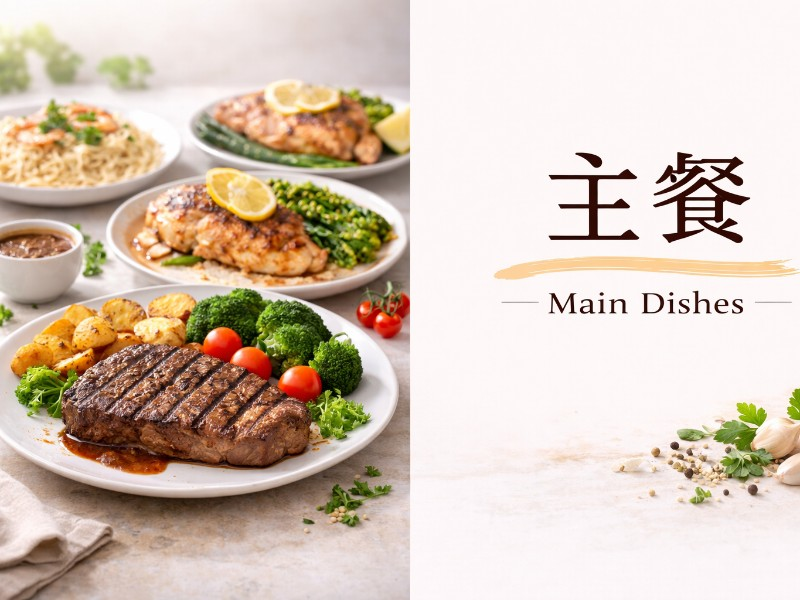
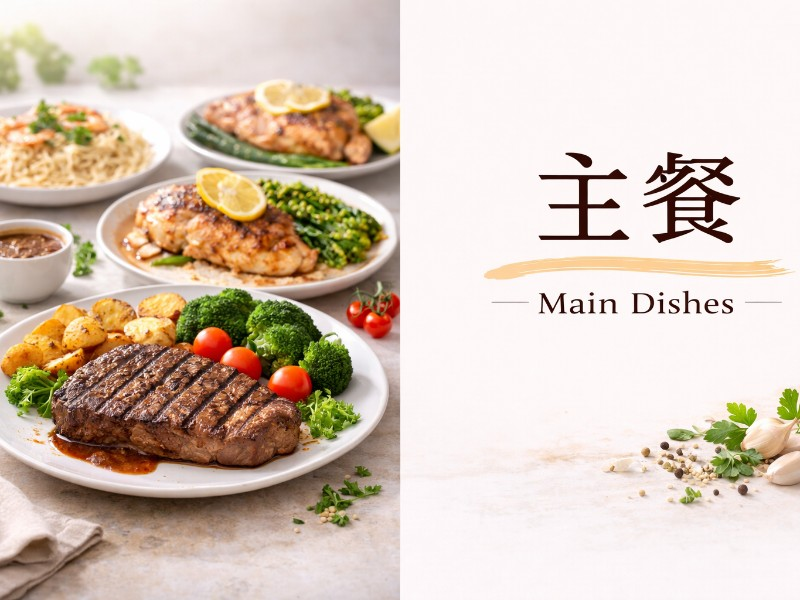
rebase合併修正

diff --git a/EatTogether/Models/Services/OrderService.cs b/EatTogether/Models/Services/OrderService.cs
@@ -548,164 +548,6 @@ namespace EatTogether.Models.Services
 
             if (!tableOrders.Any()) return null;
 
-            // 合併所有訂單的明細
-            var allItems = tableOrders
-                .SelectMany(p => p.PreOrderDetails.Select(d => new PaymentDetailItemViewModel
-                {
-                    DetailId = d.Id,
-                    ProductName = d.ProductName,
-                    Qty = d.Qty,
-                    UnitPrice = d.UnitPrice,
-                    SubTotal = d.SubTotal,
-                    Status = d.DoneOrCancel
-                })).ToList();
-
-            var servedItems = tableOrders.SelectMany(p => p.PreOrderDetails.Where(d => d.DoneOrCancel != 2));
-            int originalAmount = servedItems.Sum(d => d.SubTotal);
-            int discountAmount = tableOrders.Sum(p => p.DiscountAmount);
-
-            // 優惠券顯示第一筆有用券的
-            var couponOrder = tableOrders.FirstOrDefault(p => p.Coupon != null);
-
-            return new PaymentCheckoutViewModel
-            {
-                PreOrderIds = tableOrders.Select(p => p.Id).ToList(),
-                PreOrderId = tableOrders.First().Id,
-                OrderNumber = tableOrders.Count == 1
-                                 ? tableOrders.First().OrderNumber
-                                 : $"{tableOrders.First().OrderNumber} 等 {tableOrders.Count} 筆",
-                InOrOut = true,
-                TableName = tableOrders.First().Table?.TableName ?? "",
-                PayMethod = tableOrders.First().PayMethod,
-                OriginalAmount = originalAmount,
-                DiscountAmount = discountAmount,
-                TotalAmount = originalAmount - discountAmount,
-                HasUnserved = tableOrders.SelectMany(p => p.PreOrderDetails).Any(d => d.DoneOrCancel == 0),
-                CouponName = couponOrder?.Coupon?.Name,
-                Items = allItems
-            };
-        }
-
-        public async Task CancelUnservedByTableAsync(int tableId)
-        {
-            var today = DateTime.Today;
-            var orders = await _preOrderRepo.GetByStatusAsync(PreOrderStatus.Pending);
-            var ids = orders
-                .Where(p => p.InOrOut && p.TableId == tableId && p.OrderAt.Date == today)
-                .Select(p => p.Id).ToList();
-
-            foreach (var id in ids)
-                await _preOrderRepo.CancelUnservedDetailsAsync(id);
-        }
-
-        public async Task<int> CheckoutByTableAsync(int tableId, string payMethod)
-        {
-            var today = DateTime.Today;
-            var orders = await _preOrderRepo.GetByStatusAsync(PreOrderStatus.Pending);
-            var list = orders
-                .Where(p => p.InOrOut && p.TableId == tableId && p.OrderAt.Date == today)
-                .ToList();
-
-            int lastOrderId = 0;
-            foreach (var p in list)
-                lastOrderId = await CheckoutAsync(p.Id, payMethod);  // 逐筆結帳
-
-            if (tableId > 0)
-                await _tableRepo.UpdateStatusAsync(tableId, 0);
-
-            return lastOrderId;
-        }
-
-        public async Task<int> SplitCheckoutAsync(List<int> detailIds, string payMethod)
-        {
-            // 找到這些 detail 屬於哪些 PreOrder
-            var allPending = await _preOrderRepo.GetByStatusAsync(PreOrderStatus.Pending);
-            var allDetails = allPending.SelectMany(p => p.PreOrderDetails).ToList();
-            var selected = allDetails.Where(d => detailIds.Contains(d.Id)).ToList();
-
-            if (!selected.Any()) return 0;
-
-            // 以第一筆 PreOrder 為主建立 Order
-            var firstPreOrderId = selected.First().PreOrderId;
-            var preOrder = allPending.First(p => p.Id == firstPreOrderId);
-
-            int originalAmount = selected.Sum(d => d.SubTotal);
-
-            var payment = new Payment
-            {
-                PreOrderId = firstPreOrderId,
-                Method = payMethod,
-                PaidAt = DateTime.Now,
-                DoneOrCancel = 1
-            };
-
-            var order = new Order
-            {
-                PreOrderId = firstPreOrderId,
-                OrderNumber = preOrder.OrderNumber + "-S" + DateTime.Now.ToString("mmss"),
-                MemberId = preOrder.MemberId,
-                InOrOut = preOrder.InOrOut,
-                TableId = preOrder.TableId,
-                UserId = preOrder.UserId,
-                OrderAt = preOrder.OrderAt,
-                OriginalAmount = originalAmount,
-                DiscountAmount = 0,   // 拆單不套用優惠券
-                TotalAmount = originalAmount,
-                Note = preOrder.Note,
-                PayMethod = payMethod,
-                OrderDetails = selected.Select(d => new OrderDetail
-                {
-                    ProductId = d.ProductId,
-                    ProductName = d.ProductName,
-                    Qty = d.Qty,
-                    UnitPrice = d.UnitPrice,
-                    SubTotal = d.SubTotal
-                }).ToList()
-            };
-
-            await _orderRepo.AddWithPaymentAsync(order, payment);
-
-            // 把已結帳的 detail 標記為完成
-            foreach (var d in selected)
-                await _preOrderRepo.UpdateDetailStatusAsync(d.Id, 1);
-
-            // 檢查每筆 PreOrder 是否全部結完
-            foreach (var preOrderId in selected.Select(d => d.PreOrderId).Distinct())
-            {
-                var p = await _preOrderRepo.GetByIdAsync(preOrderId);
-                if (p != null && p.PreOrderDetails.All(d => d.DoneOrCancel == 1))
-                {
-                    await _preOrderRepo.UpdateStatusAsync(preOrderId, PreOrderStatus.Done);
-                }
-            }
-
-            // 如果該桌所有 PreOrder 都結完，桌子改回空桌
-            var tableId = preOrder.TableId;
-            if (tableId.HasValue)
-            {
-                var remaining = allPending
-                    .Where(p => p.TableId == tableId && p.DoneOrCancel == 0)
-                    .SelectMany(p => p.PreOrderDetails)
-                    .Any(d => d.DoneOrCancel == 0);
-
-                if (!remaining)
-                    await _tableRepo.UpdateStatusAsync(tableId.Value, 0);
-            }
-
-            return order.Id;
-        }
-
-        public async Task<PaymentCheckoutViewModel?> GetCheckoutByTableAsync(int tableId)
-        {
-            var today = DateTime.Today;
-            var orders = await _preOrderRepo.GetByStatusAsync(PreOrderStatus.Pending);
-            var tableOrders = orders
-                .Where(p => p.InOrOut && p.TableId == tableId && p.OrderAt.Date == today)
-                .OrderBy(p => p.OrderAt)
-                .ToList();
-
-            if (!tableOrders.Any()) return null;
-
             // 只顯示還沒結帳的餐點（IsBilled = false 且沒有被取消）
             var allItems = tableOrders
                 .SelectMany(p => p.PreOrderDetails

diff --git a/EatTogether/Models/EfModels/Product.cs b/EatTogether/Models/EfModels/Product.cs
@@ -18,7 +18,6 @@ public partial class Product
 
     public virtual Dish Dish { get; set; }
 
-	public virtual SetMeal SetMeal { get; set; }
 
 	public virtual ICollection<MemberFavorite> MemberFavorites { get; set; } = new List<MemberFavorite>();
 
